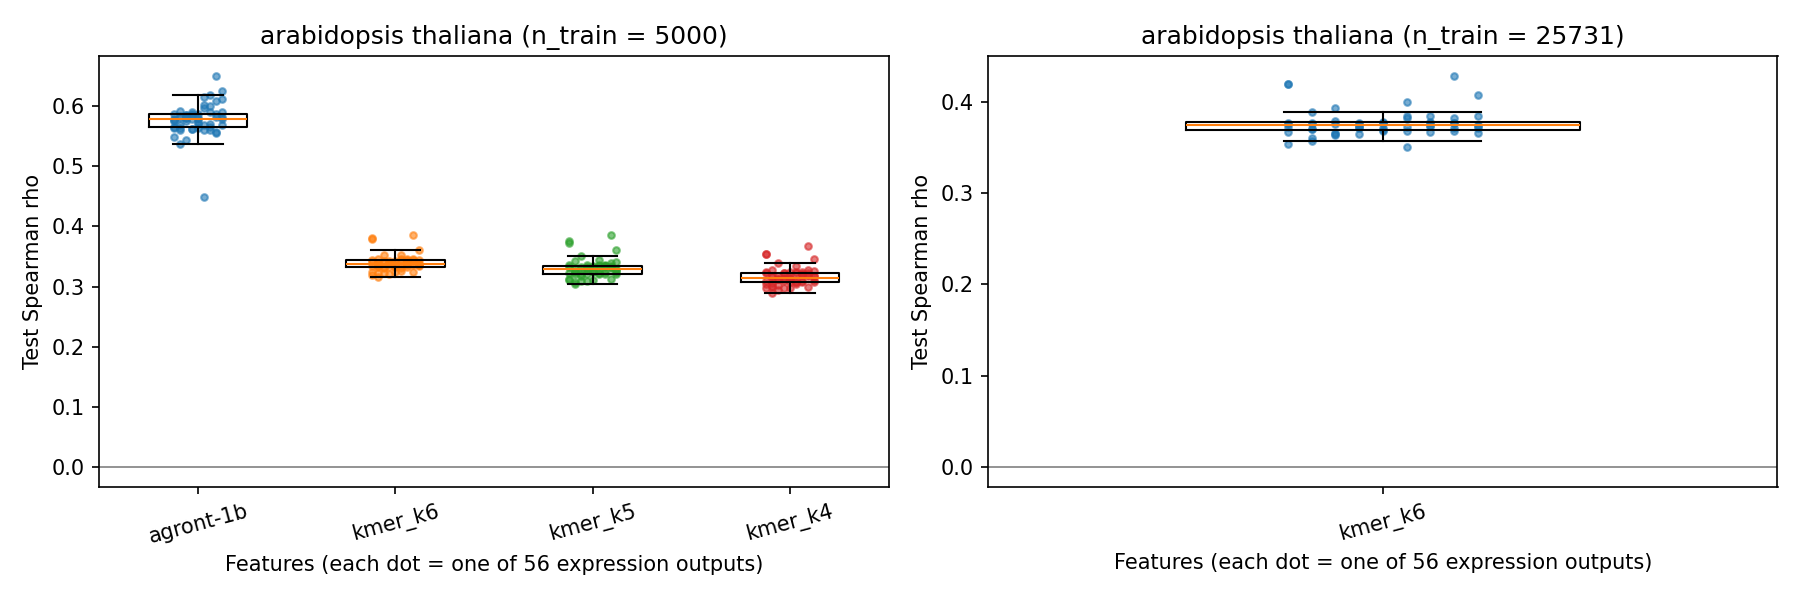
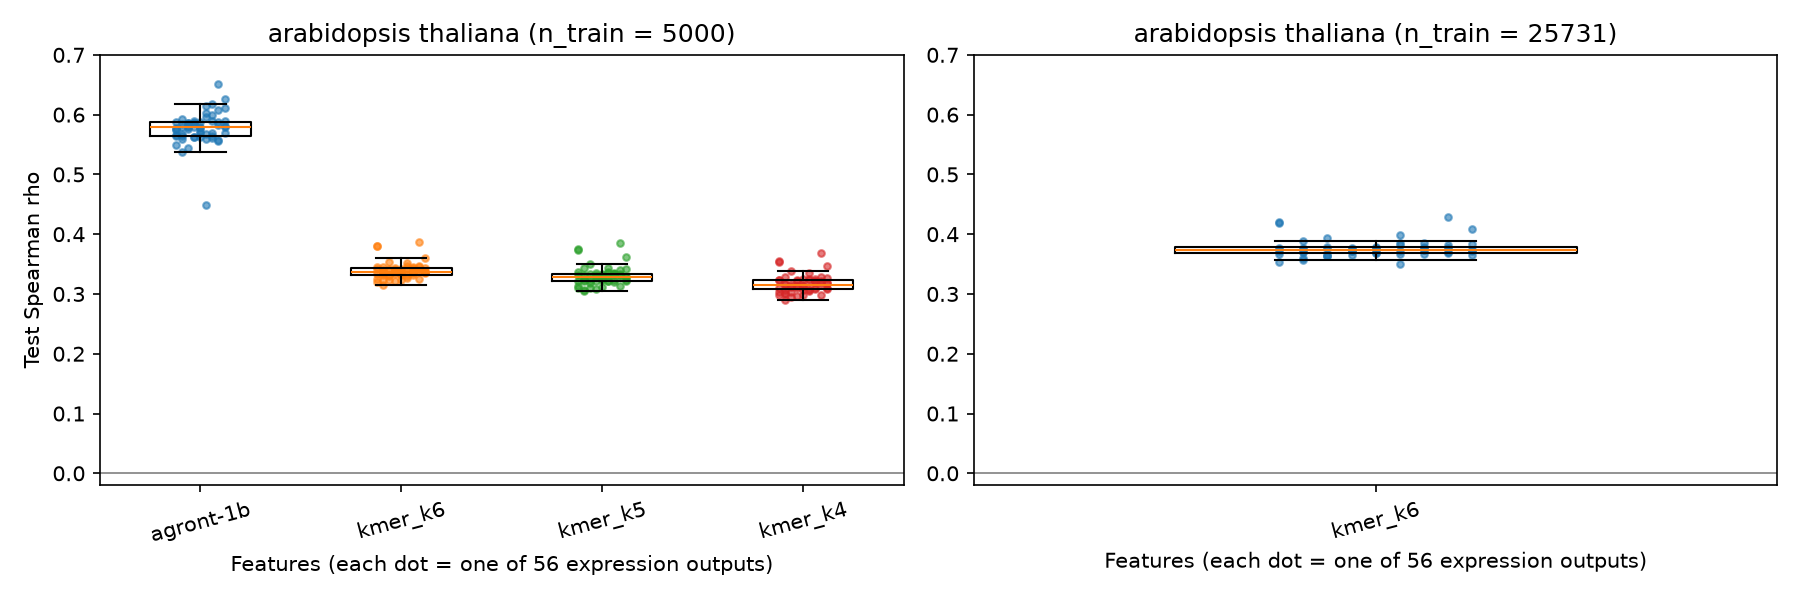
Shared y-axis across panels; AgroNT vs k-mer results and figure

diff --git a/scripts/compare.py b/scripts/compare.py
@@ -44,7 +44,8 @@ def main():
     # Figure: per-output Spearman for each model, one panel per species/training size.
     po = pd.DataFrame(per_output)
     groups = list(po.groupby(["species", "n_train"]))
-    fig, axes = plt.subplots(1, len(groups), figsize=(6 * len(groups), 4), squeeze=False)
+    # sharey=True: every panel uses the same y scale, so equal heights mean equal scores.
+    fig, axes = plt.subplots(1, len(groups), figsize=(6 * len(groups), 4), squeeze=False, sharey=True)
     for ax, ((species, n_train), g) in zip(axes[0], groups):
         order = g.groupby("model")["spearman"].mean().sort_values(ascending=False).index.tolist()
         n_out = g["output"].nunique()
@@ -62,8 +63,12 @@ def main():
             ax.set_xticks(range(1, len(order) + 1), order, rotation=15)
             ax.set_xlabel(f"Features (each dot = one of {n_out} expression outputs)")
         ax.set_title(f"{species.replace('_', ' ')} (n_train = {n_train})")
-        ax.set_ylabel("Test Spearman rho")
+        if ax is axes[0][0]:
+            ax.set_ylabel("Test Spearman rho")
+        ax.yaxis.set_tick_params(labelleft=True)  # keep the numbers on every panel
         ax.axhline(0, color="grey", lw=0.8)
+    top = po["spearman"].max()
+    axes[0][0].set_ylim(min(0, po["spearman"].min()) - 0.02, top + 0.05)
     fig.tight_layout()
     fig_dir = res_dir / "figures"
     fig_dir.mkdir(parents=True, exist_ok=True)
